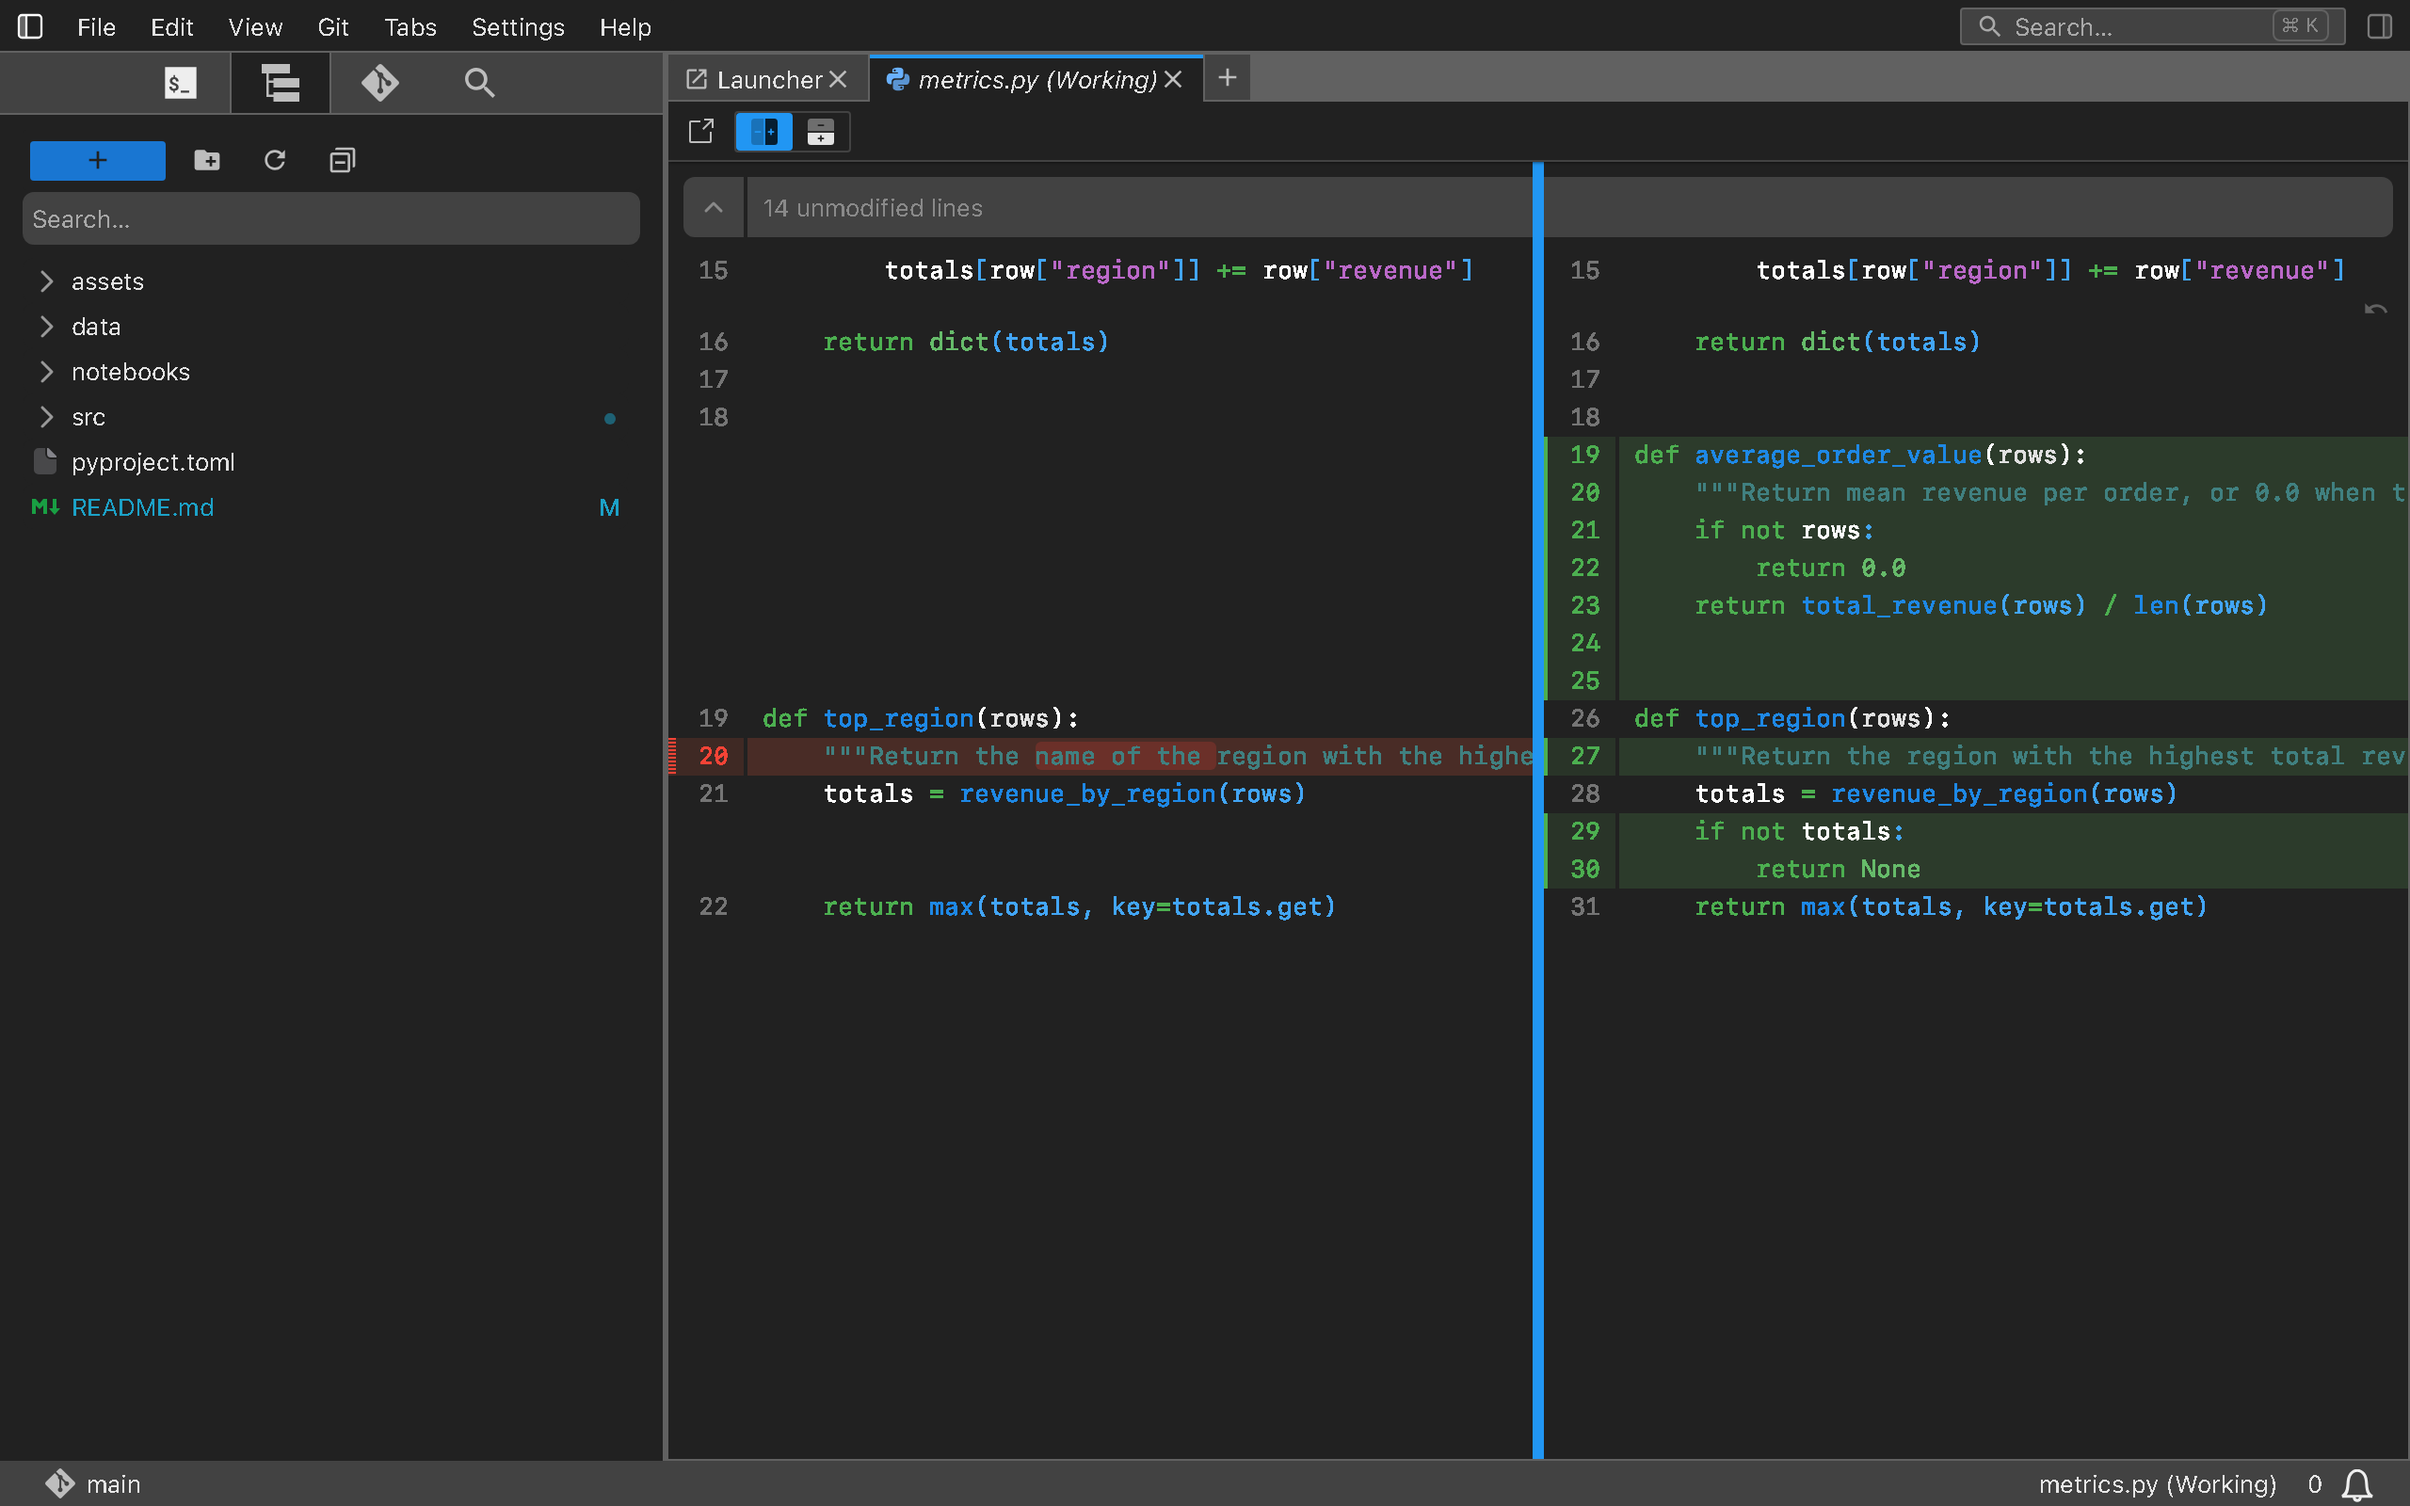
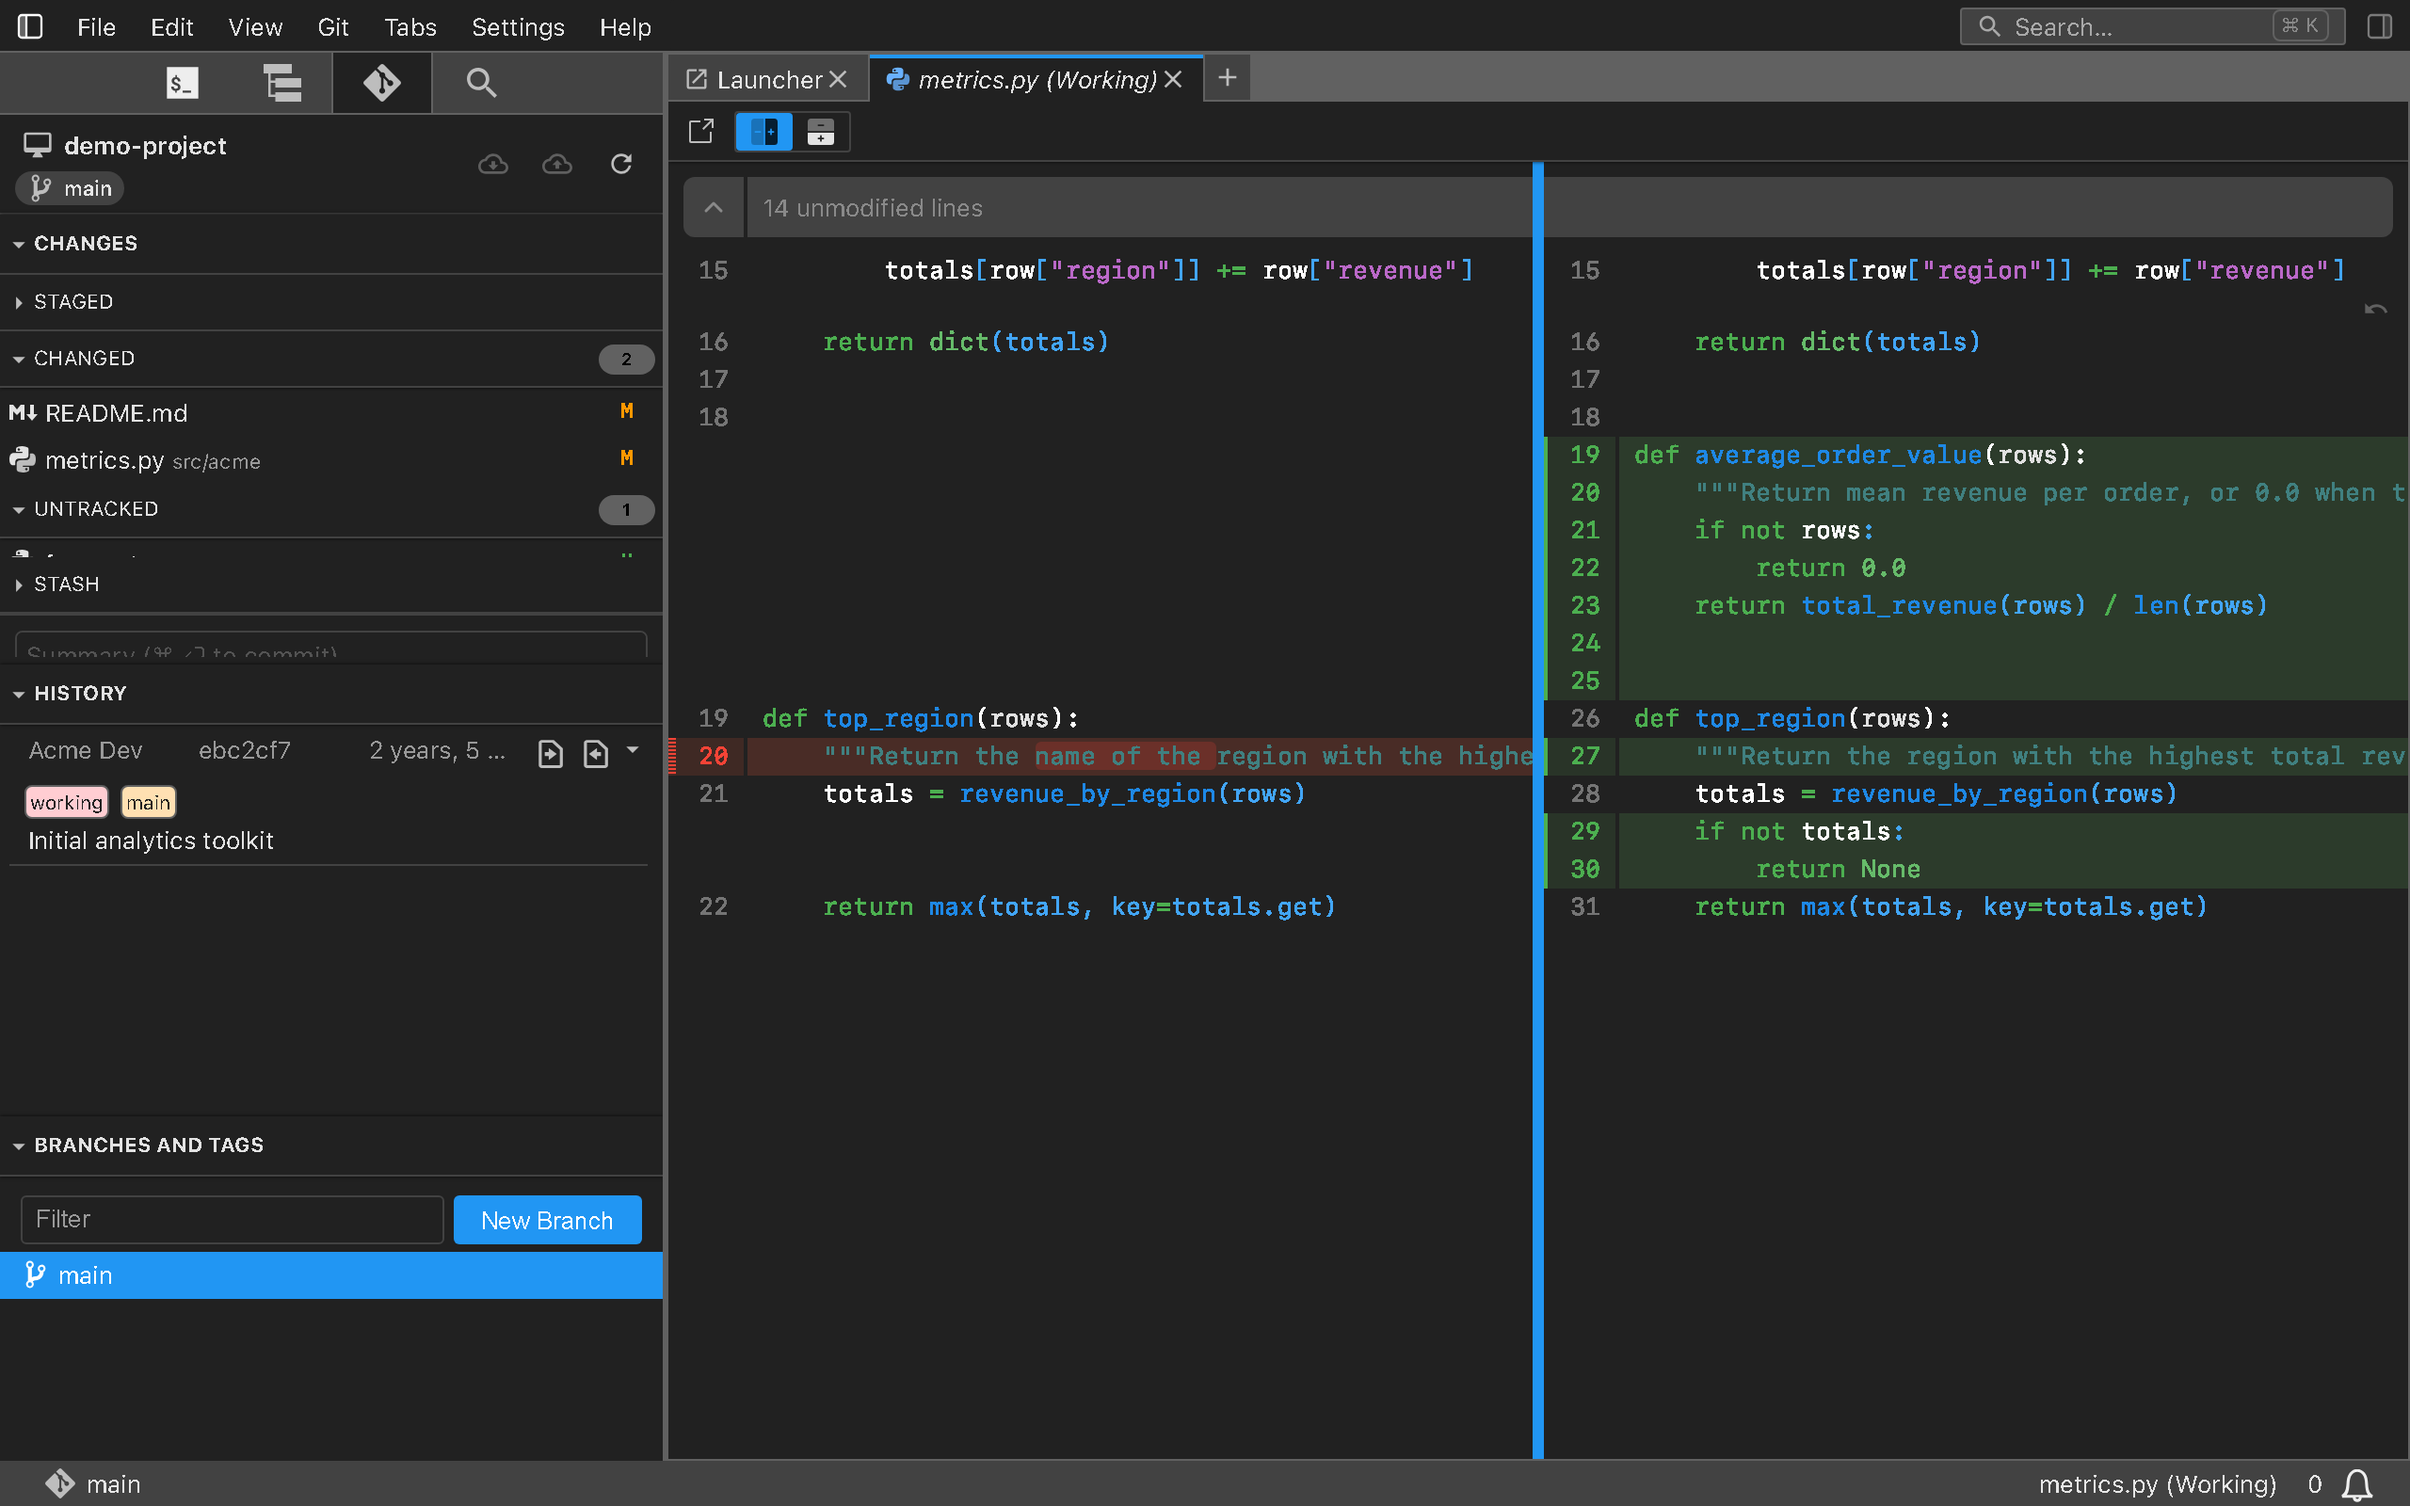
Show the git panel in the diff screenshot

diff --git a/ui-tests/screenshots.spec.ts b/ui-tests/screenshots.spec.ts
@@ -87,6 +87,15 @@ test('launcher', async ({ page }) => {
 
 test('git diff', async ({ page }) => {
   await ready(page);
+  // Pair the git panel on the left with the diff in the main area.
+  await page.evaluate(() => {
+    (window as any).jupyterapp.shell.activateById('jp-git-sessions');
+  });
+  await page
+    .locator('[id="jp-git-sessions"]')
+    .getByText('metrics.py')
+    .first()
+    .waitFor({ timeout: 15000 });
   await page
     .locator('.jp-xtralab-Launcher-change', { hasText: 'src/acme/metrics.py' })
     .click();
